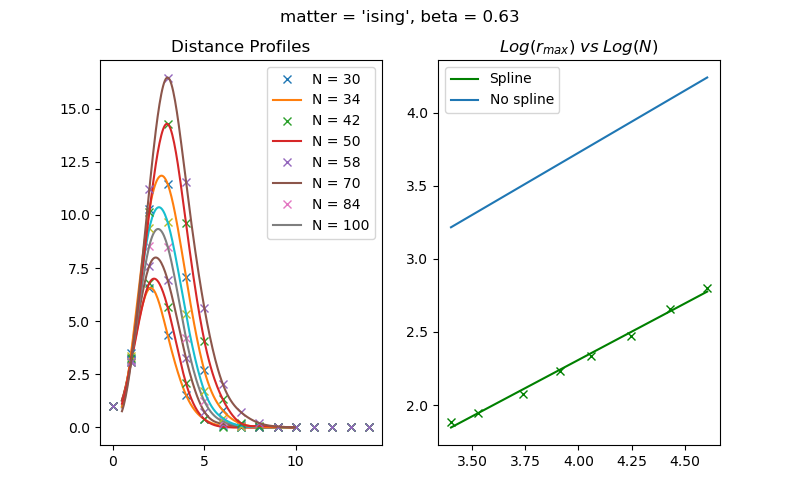
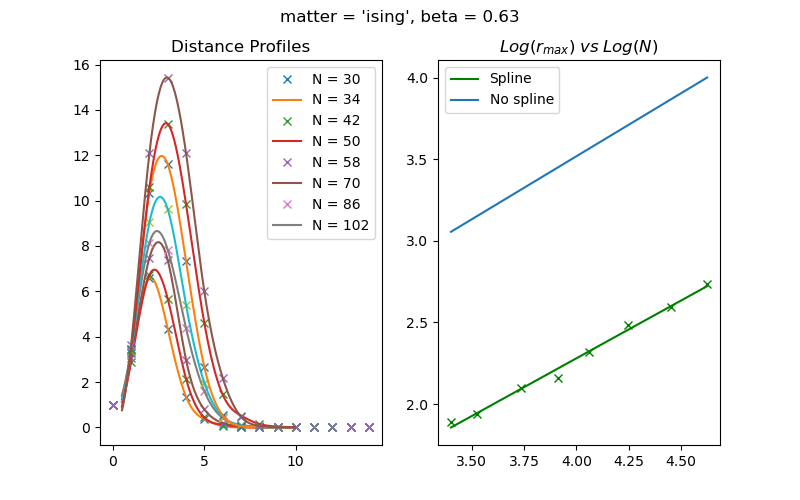
some modifications to running and plotting routines

diff --git a/manifold_sampler/tests/spinor_test.py b/manifold_sampler/tests/spinor_test.py
@@ -2,6 +2,7 @@ import sys
 import unittest
 
 import scipy.linalg
+from timebudget import timebudget
 
 sys.path.append("../")
 from manifold_sampler.Triangulation import *
@@ -10,35 +11,20 @@ beta = 0.5
 
 
 class TestGauge(unittest.TestCase):
-
+    @timebudget
     def test_adjacent(self):
-        N = 14
-        n_sweeps = 100
+        N = 102
+        n_sweeps = 10
         m = Manifold(N)
         strategy = ['gravity', 'spinor_inter']
         for _ in range(2):
             m.sweep(n_sweeps, beta, strategy)
             for i in range(len(m.adj)):
-                self.assertEqual(m.A[i], -m.A[m.adj[i]])  ### RARELY DOES NOT WORK # fixed now
+                self.assertEqual(m.A[i], -m.A[m.adj[i]])
 
     def test_paral_trans(self):
         A = 2
         np.testing.assert_allclose(scipy.linalg.expm(A * eps), paral_trans(A))
-
-
-class TestPsi(unittest.TestCase):
-
-    def test_mass_term_real(self):
-        N = 14
-        n_sweeps = 10
-        m = Manifold(N)
-        strategy = ['gravity', 'spinor_inter']
-        m.sweep(n_sweeps, beta, strategy)
-        for c in range(N):
-            psi = m.psi[c]
-            psi_bar = np.conj(np.matmul(gamma1, psi))
-            product = np.matmul(psi_bar, psi)
-            self.assertAlmostEqual(np.imag(product), 0)
 
 
 class TestConnection(unittest.TestCase):
@@ -70,13 +56,12 @@ class TestConnection(unittest.TestCase):
             self.assertAlmostEqual(trace_plaquette, np.cos(def_triangles * np.pi / 6))
 
         # check if edge flips preserve the consistency of the sign configuration
-        for it in range(46 * N):
+        for _ in range(10 * N):
             m.random_update(beta=0.6, strategy=strategy)
             for i in range(len(m.adj)):
                 U, def_triangles = circle_vertex(m.adj, m.sign, i)
                 trace_plaquette = np.trace(U) / 2
                 self.assertAlmostEqual(trace_plaquette, np.cos(def_triangles * np.pi / 6))
-            print(it)
 
     def test_gauge_sign(self):
         N = 10
@@ -92,6 +77,26 @@ class TestConnection(unittest.TestCase):
             for edge in m.adj:
                 self.assertEqual(m.sign[edge], -m.sign[m.adj[edge]])
             np.testing.assert_allclose(m.sign ** 2, np.ones(3 * N))
+
+
+class TestAction(unittest.TestCase):
+    @timebudget
+    def test_dirac_determinant_sign(self):
+        N = 102
+        m = Manifold(N)
+        strategy = ['gravity', 'spinor_free']
+
+        # check if the fan triangulation has a consistent dirac determinant sign
+        D = Dirac_operator(m.adj, m.sign)
+        det_sign = np.linalg.slogdet(D)[0]
+        self.assertEqual(det_sign, 1)
+
+        # check if edge flips preserve the consistency of the dirac determinant sign
+        for it in range(10 * N):
+            m.random_update(beta=0.6, strategy=strategy)
+            D = Dirac_operator(m.adj, m.sign)
+            det_sign = np.linalg.slogdet(D)[0]
+            self.assertEqual(det_sign, 1)
 
 
 if __name__ == '__main__':

diff --git a/manifold_sampler/Action.py b/manifold_sampler/Action.py
@@ -11,7 +11,7 @@ phi_range = 1
 sigma_const = 1
 
 # spinor field params
-_K = 1
+_K = 0.3746166
 psi_range = 0.7
 A_range = 1
 _mass = 1/2
@@ -51,9 +51,7 @@ def paral_trans(A):  ### check how to calculate parallel transporter
 def S_spinor(adj, sign, A=None):
     D = Dirac_operator(adj, sign)
     logdet = np.linalg.slogdet(D)
-    if logdet[0] < 0:
-        print("det sign = -1")
-    return logdet[1]
+    return 1/2 * logdet[1]
 
 
 def Dirac_operator(adj, sign, A=None):
@@ -73,7 +71,7 @@ def Dirac_operator(adj, sign, A=None):
 
             alpha = theta[k] - theta[adj[edge] % 3] + np.pi
             U = sign[edge] * paral_trans((alpha + A[edge]) / 2)  # factor of 1/2 accounts for spinor transport
-            H_0 = 1/2 * np.cos(theta[k]) * np.matmul(id + gamma1, U) + 1/2 * np.sin(theta[k]) * np.matmul(id + gamma2, U) - id
+            H_0 = 1/2 * np.cos(theta[k]) * np.matmul(id + gamma1, U) - 1/2 * np.sin(theta[k]) * np.matmul(id + gamma2, U) - id
             H = -_K * np.matmul(eps, H_0)
 
             for a in range(2):

diff --git a/manifold_sampler/track_quantities.py b/manifold_sampler/track_quantities.py
@@ -12,23 +12,20 @@ range = range(50)
 Ss = []
 Phis = []
 Ms = []
-Psis = []
 
 #_K = 0
 
-fig, ax = plt.subplots(4)
+fig, ax = plt.subplots(3)
 for _ in range:
     Ss.append(l.S_tot(strategy)/N)
     Phis.append(np.std(l.phi))
     Ms.append(np.average(l.sigma))
-    Psis.append(np.std(l.psi))
     l.sweep(1, beta=beta, strategy=strategy)
 
 fig.suptitle("Lattice size = " + str(N) + f', {beta = }')
 ax[0].plot(range, Ss), ax[0].set_title("Action")
 ax[1].plot(range, Phis), ax[1].set_title("Phi")
 ax[2].plot(range, Ms), ax[2].set_title("Magn")
-ax[3].plot(range, Psis), ax[3].set_title("Psi")
 plt.show()
 
 

diff --git a/manifold_sampler/Triangulation.py b/manifold_sampler/Triangulation.py
@@ -188,7 +188,7 @@ class Manifold:
             if 'scalar' in strategy:
                 S += S_phi(self.adj, self.phi, c)
             if 'spinor_free' in strategy:
-                S += S_spinor(self.adj, self.psi, c, self.sign)
+                S += S_spinor(self.adj, self.sign)
             if 'spinor_inter' in strategy:
                 S += S_psi_inter(self.adj, self.psi, c, self.A)
             if 'ising' in strategy:

diff --git a/manifold_sampler/main_hpc.py b/manifold_sampler/main_hpc.py
@@ -3,9 +3,9 @@ from Analysis_utils import *
 from scipy.interpolate import CubicSpline
 
 # params for the lattice-matter system and sampling
-sizes = [(int(i) // 2) * 2 for i in np.geomspace(30, 100, 8)]
+sizes = [(int(i) // 4) * 4 + 2 for i in np.geomspace(30, 100, 8)]
 beta = 0.63
-matter = 'ising'
+matter = 'spinor_free'
 strategy = ['gravity', matter]
 eq_sweeps, meas_sweeps, n_measurements = 200, 4, 200
 
